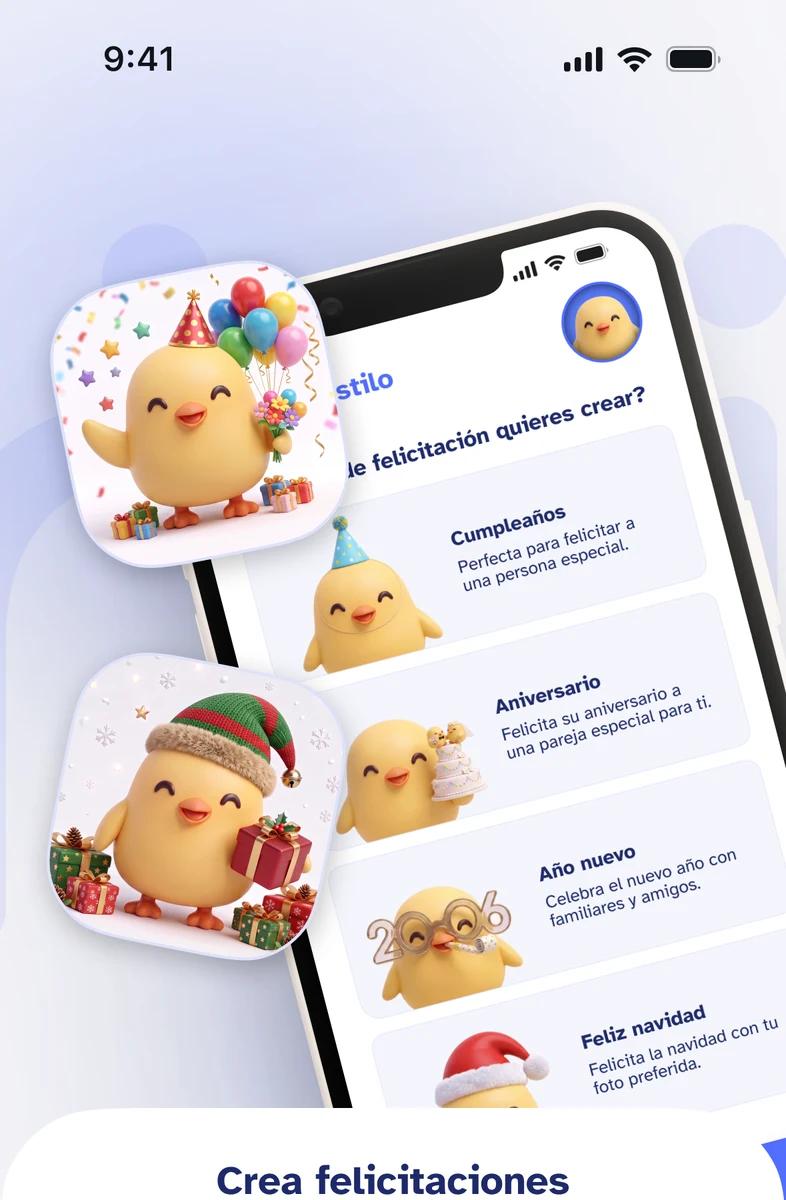
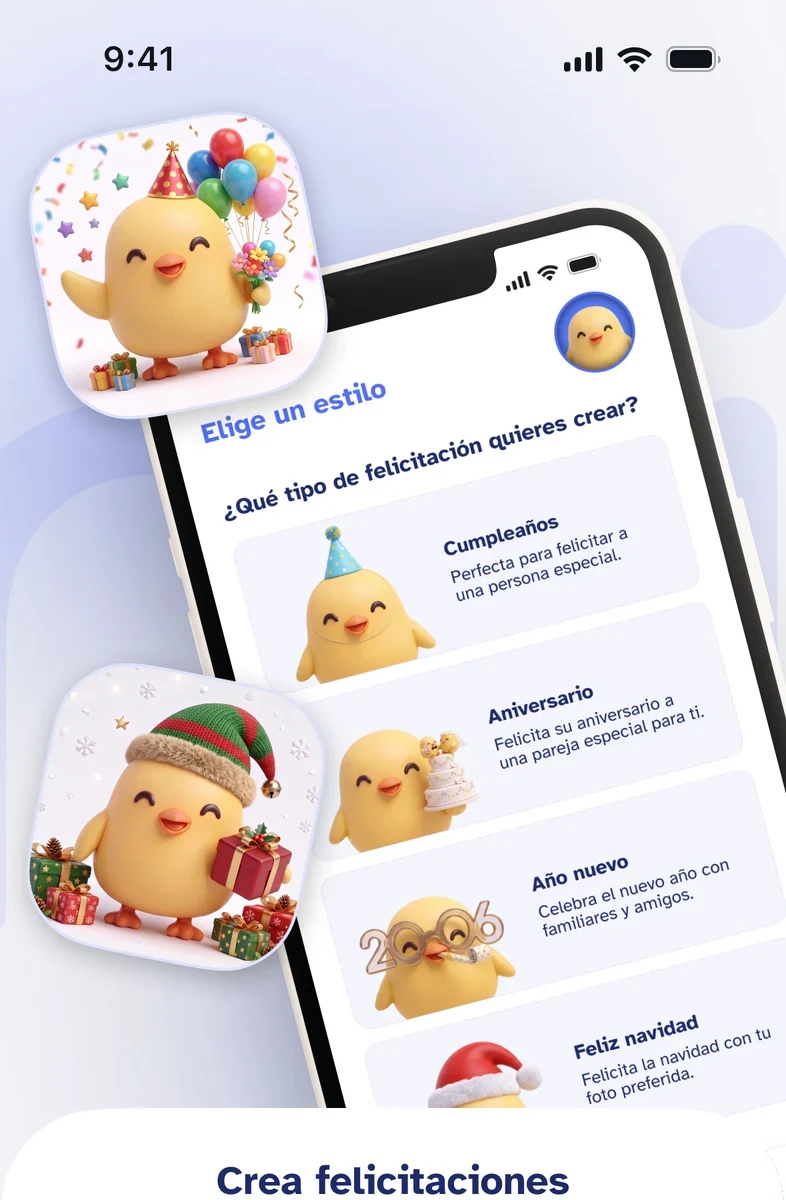
Intro 3: ilustración nueva (se lee «Elige un estilo») y sin el trozo azul de la esquina

diff --git a/Prototipo/index.html b/Prototipo/index.html
@@ -355,7 +355,7 @@
     </section>
 
     <section class="screen screen--intro" data-screen="intro-3">
-      <img class="intro-ilustracion" src="assets/img/intro-3.webp" alt="Un móvil con los tipos de felicitación de Nido y dos felicitaciones del pollito" />
+      <img class="intro-ilustracion" src="assets/img/intro-3.webp?v=3" alt="Un móvil con los tipos de felicitación de Nido y dos felicitaciones del pollito" />
       <div class="intro-hoja"></div>
       <div class="intro-contenido">
         <div class="intro-textos">
